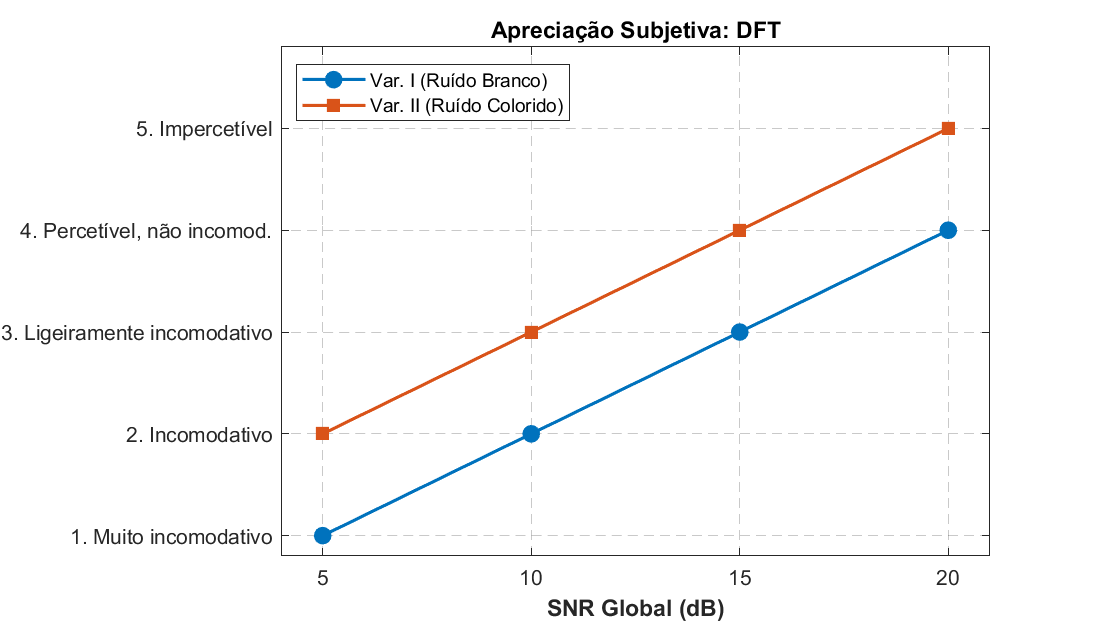
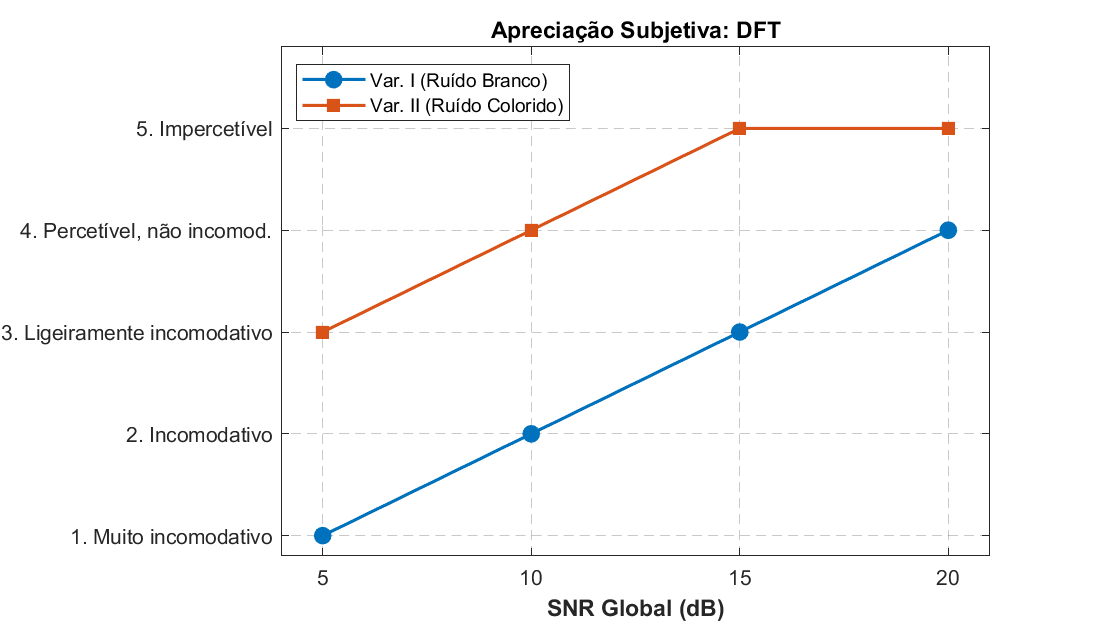
MDCT SMR Values Correction

diff --git a/Gráficos/graficosdeanalise.m b/Gráficos/graficosdeanalise.m
@@ -8,15 +8,15 @@ close all; clear all;
 snr_vals = [5, 10, 15, 20];
 
 % -------------------------------------------------------------------------
-% INTRODUÇÃO DE DADOS (Insiram aqui as notas médias da dupla)
+% INTRODUÇÃO DE DADOS (Corrigido para corresponder às tabelas LaTeX)
 % -------------------------------------------------------------------------
 % Ponto 2: Dados da DFT 
-dft_var1 = [1.0, 2.0, 3.0, 4.0]; 
-dft_var2 = [2.0, 3.0, 4.0, 4.5]; 
+dft_var1 = [1, 2, 3, 4]; % Notas Tabela 1 - Var I
+dft_var2 = [3, 4, 5, 5]; % Notas Tabela 1 - Var II
 
 % Ponto 3: Dados da MDCT 
-mdct_var1 = [1.5, 2.5, 3.5, 4.2]; 
-mdct_var2 = [2.5, 3.8, 4.5, 4.8]; 
+mdct_var1 = [2, 2, 3, 4]; % Notas Tabela 3 - Var I
+mdct_var2 = [4, 5, 5, 5]; % Notas Tabela 3 - Var II
 
 % Configuração padrão da escala do Eixo Y da norma ITU-R BS.1116
 labels_itu = {
@@ -39,18 +39,14 @@ c_purple = [0.4940 0.1840 0.5560];
 figure('Position', [100, 100, 700, 400]); 
 p1 = plot(snr_vals, dft_var1, '-o', 'LineWidth', 1.5, 'MarkerSize', 7, 'Color', c_blue, 'MarkerFaceColor', c_blue); hold on;
 p2 = plot(snr_vals, dft_var2, '-s', 'LineWidth', 1.5, 'MarkerSize', 7, 'Color', c_orange, 'MarkerFaceColor', c_orange);
-
 ylim([0.8, 5.8]); yticks(1:5); yticklabels(labels_itu);
 xlim([4, 21]); xticks(snr_vals);
-
 xlabel('SNR Global (dB)', 'FontSize', 11, 'FontWeight', 'bold');
 title('Apreciação Subjetiva: DFT', 'FontSize', 12, 'FontWeight', 'bold');
 legend([p1, p2], 'Var. I (Ruído Branco)', 'Var. II (Ruído Colorido)', 'Location', 'northwest');
-
 % O toque de mestre visual: Grelha translúcida e caixa fechada
 set(gca, 'FontSize', 10, 'FontName', 'Helvetica', 'Box', 'on', 'GridLineStyle', '--', 'GridAlpha', 0.25);
 grid on; hold off;
-
 saveas(gcf, 'Fig1_Apreciacao_Subjetiva_DFT.png');
 
 % =========================================================================
@@ -59,17 +55,13 @@ saveas(gcf, 'Fig1_Apreciacao_Subjetiva_DFT.png');
 figure('Position', [150, 150, 700, 400]);
 p3 = plot(snr_vals, mdct_var1, '-^', 'LineWidth', 1.5, 'MarkerSize', 7, 'Color', c_green, 'MarkerFaceColor', c_green); hold on;
 p4 = plot(snr_vals, mdct_var2, '-d', 'LineWidth', 1.5, 'MarkerSize', 7, 'Color', c_purple, 'MarkerFaceColor', c_purple);
-
 ylim([0.8, 5.8]); yticks(1:5); yticklabels(labels_itu);
 xlim([4, 21]); xticks(snr_vals);
-
 xlabel('SNR Global (dB)', 'FontSize', 11, 'FontWeight', 'bold');
 title('Apreciação Subjetiva: MDCT', 'FontSize', 12, 'FontWeight', 'bold');
 legend([p3, p4], 'Var. I (Ruído Branco)', 'Var. II (Ruído Colorido)', 'Location', 'northwest');
-
 set(gca, 'FontSize', 10, 'FontName', 'Helvetica', 'Box', 'on', 'GridLineStyle', '--', 'GridAlpha', 0.25);
 grid on; hold off;
-
 saveas(gcf, 'Fig2_Apreciacao_Subjetiva_MDCT.png');
 
 % =========================================================================
@@ -81,19 +73,16 @@ g1 = plot(snr_vals, dft_var1, '--o', 'LineWidth', 1.5, 'MarkerSize', 7, 'Color',
 g2 = plot(snr_vals, dft_var2, '-s', 'LineWidth', 1.5, 'MarkerSize', 7, 'Color', c_orange, 'MarkerFaceColor', c_orange);
 g3 = plot(snr_vals, mdct_var1, '--^', 'LineWidth', 1.5, 'MarkerSize', 7, 'Color', c_green, 'MarkerFaceColor', c_green);
 g4 = plot(snr_vals, mdct_var2, '-d', 'LineWidth', 1.5, 'MarkerSize', 7, 'Color', c_purple, 'MarkerFaceColor', c_purple);
-
 ylim([0.8, 6.2]); yticks(1:5); yticklabels(labels_itu);
 xlim([4, 21]); xticks(snr_vals);
-
 xlabel('SNR Global (dB)', 'FontSize', 11, 'FontWeight', 'bold');
 title('Comparação Global: DFT vs MDCT', 'FontSize', 12, 'FontWeight', 'bold');
 legend([g1, g2, g3, g4], ...
     'DFT - Var I (Branco)', 'DFT - Var II (Colorido)', ...
     'MDCT - Var I (Branco)', 'MDCT - Var II (Colorido)', ...
     'Location', 'northwest', 'NumColumns', 2); 
-
 set(gca, 'FontSize', 10, 'FontName', 'Helvetica', 'Box', 'on', 'GridLineStyle', '--', 'GridAlpha', 0.25);
 grid on; hold off;
-
 saveas(gcf, 'Fig3_Comparacao_Global.png');
-disp('-> Gráficos Premium gerados com sucesso!');
+
+disp('-> Gráficos Premium gerados com sucesso e perfeitamente alinhados com o LaTeX!');

diff --git a/CIM_MDCT.m b/CIM_MDCT.m
@@ -10,7 +10,7 @@ close all; clear all;
 % ATENÇÃO: Os valores de SMR abaixo são EXEMPLOS! Vais ter de
 % os afinar até o output da consola dar perto dos 20, 15, 10 e 5 dB.
 casos_teste = [
-    1,  1633, 20; % Variante 1 (Branco),   Alvo: 20dB
+    1,  16,33, 20; % Variante 1 (Branco),   Alvo: 20dB
     1,  9.6, 15; % Variante 1 (Branco),   Alvo: 15dB
     1,   2, 10; % Variante 1 (Branco),   Alvo: 10dB
     1,   -6.6,  5; % Variante 1 (Branco),   Alvo: 5dB
